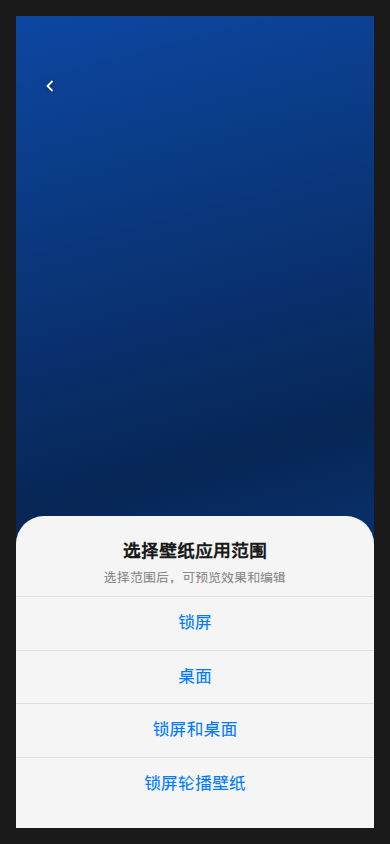
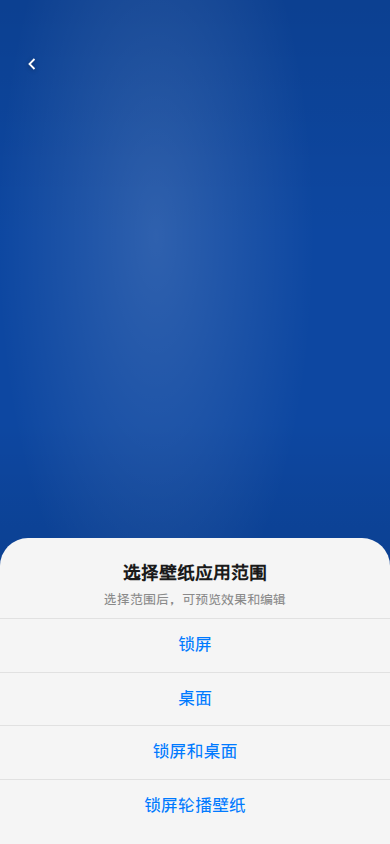
fix(apply-scope): full-bleed screen with no side margins
Make the apply-scope page fill the viewport edge-to-edge so the
preview and sheet have no empty side gutters.

diff --git a/wallpaper-labels/apply-scope.css b/wallpaper-labels/apply-scope.css
@@ -4,41 +4,52 @@
   box-sizing: border-box;
 }
 
+html, body {
+  width: 100%;
+  height: 100%;
+  overflow: hidden;
+}
+
 body {
   font-family: -apple-system, BlinkMacSystemFont, 'PingFang SC', 'Helvetica Neue', sans-serif;
-  background: #1a1a1a;
-  min-height: 100vh;
-  display: flex;
-  justify-content: center;
-  align-items: flex-start;
-  padding: 16px;
+  background: #0D47A1;
   -webkit-font-smoothing: antialiased;
 }
 
+/* 全屏铺满，不留边空 */
 .phone-frame {
   position: relative;
-  width: 390px;
-  height: 844px;
-  max-height: calc(100vh - 32px);
-  border-radius: 0;
+  width: 100%;
+  height: 100%;
+  min-height: 100vh;
+  min-height: 100dvh;
   overflow: hidden;
-  background: #000;
+  background: #0D47A1;
 }
 
 .preview {
   position: absolute;
   inset: 0;
-  /* 与其他原型页统一的蓝色占位 */
-  background: linear-gradient(165deg, #1976D2 0%, #1565C0 55%, #0D47A1 100%);
+  background: linear-gradient(165deg, #1976D2 0%, #1565C0 45%, #0D47A1 100%);
+}
+
+.preview::after {
+  content: '';
+  position: absolute;
+  inset: 0;
+  background:
+    radial-gradient(ellipse at 40% 28%, rgba(255, 255, 255, 0.14), transparent 48%),
+    linear-gradient(180deg, rgba(0, 0, 0, 0.1) 0%, transparent 28%, transparent 50%, rgba(0, 0, 0, 0.28) 100%);
+  pointer-events: none;
 }
 
 .btn-back {
   position: absolute;
-  top: 52px;
-  left: 16px;
+  top: max(44px, env(safe-area-inset-top, 0px) + 12px);
+  left: 12px;
   z-index: 3;
-  width: 36px;
-  height: 36px;
+  width: 40px;
+  height: 40px;
   border: none;
   border-radius: 50%;
   background: transparent;
@@ -47,7 +58,7 @@ body {
   align-items: center;
   justify-content: center;
   cursor: pointer;
-  filter: drop-shadow(0 1px 2px rgba(0,0,0,0.35));
+  filter: drop-shadow(0 1px 2px rgba(0, 0, 0, 0.35));
 }
 
 .sheet {
@@ -56,9 +67,10 @@ body {
   right: 0;
   bottom: 0;
   z-index: 4;
+  width: 100%;
   background: #f5f5f5;
   border-radius: 28px 28px 0 0;
-  padding: 22px 0 calc(18px + env(safe-area-inset-bottom, 0px));
+  padding: 22px 0 calc(12px + env(safe-area-inset-bottom, 0px));
   text-align: center;
 }
 
@@ -80,6 +92,7 @@ body {
 .options {
   display: flex;
   flex-direction: column;
+  width: 100%;
 }
 
 .option {
@@ -91,11 +104,8 @@ body {
   font-weight: 400;
   line-height: 1.2;
   padding: 16px 24px;
+  width: 100%;
   cursor: pointer;
-  border-top: 1px solid rgba(0, 0, 0, 0.08);
-}
-
-.option:first-child {
   border-top: 1px solid rgba(0, 0, 0, 0.08);
 }
 
